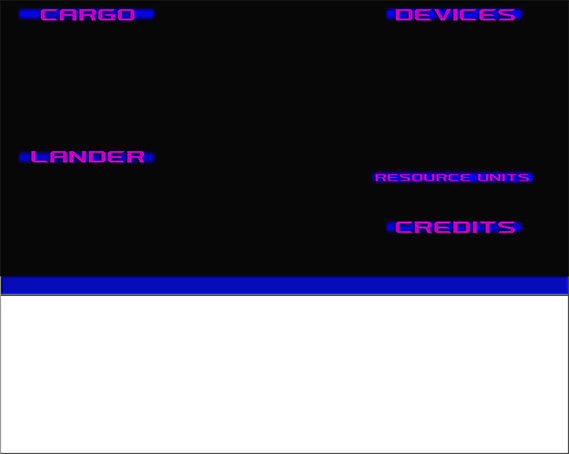
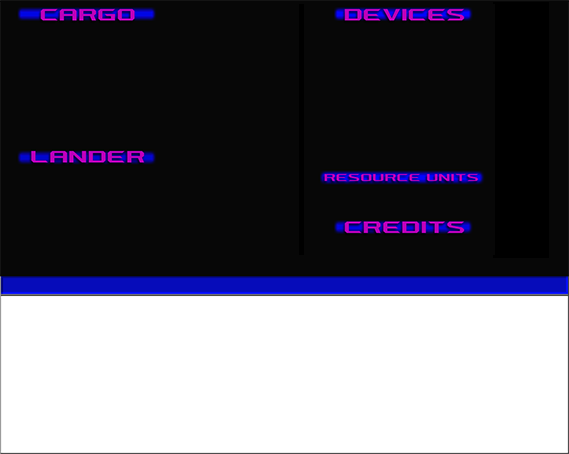
Fixed save/load screen graphics in 2x.

Changed region(s): [[0.5677, 0.0, 0.9262, 0.0617], [0.5677, 0.4626, 0.9262, 0.5242], [0.5378, 0.37, 0.9561, 0.4317]]

diff --git a/sc2/src/uqm/gameopt.c b/sc2/src/uqm/gameopt.c
@@ -648,9 +648,7 @@ DrawSavegameSummary (PICK_GAME_STATE *pickState, COUNT gameIndex)
 		{
 			COUNT j;
 
-			s.origin.x = (140 << RESOLUTION_FACTOR) + SUMMARY_X_OFFS + SUMMARY_SIDE_OFFS; // JMS_GFX
-			if (RESOLUTION_FACTOR == 2)
-				s.origin.x += 110;
+			s.origin.x = (140 << RESOLUTION_FACTOR) + SUMMARY_X_OFFS + SUMMARY_SIDE_OFFS + RES_CASE(0,10,110); // JMS_GFX
 			
 			for (j = 0; j < 4; ++j)
 			{
@@ -668,9 +666,7 @@ DrawSavegameSummary (PICK_GAME_STATE *pickState, COUNT gameIndex)
 
 		// Placement of the RU and bio-credit amounts.
 		SetContextFont (StarConFont);
-		t.baseline.x = (173 << RESOLUTION_FACTOR) + SUMMARY_X_OFFS + SUMMARY_SIDE_OFFS; // JMS_GFX
-		if (RESOLUTION_FACTOR == 2)
-			t.baseline.x += 110;
+		t.baseline.x = (173 << RESOLUTION_FACTOR) + SUMMARY_X_OFFS + SUMMARY_SIDE_OFFS + RES_CASE(0,15,110); // JMS_GFX
 		
 		t.align = ALIGN_CENTER;
 		t.CharCount = (COUNT)~0;
